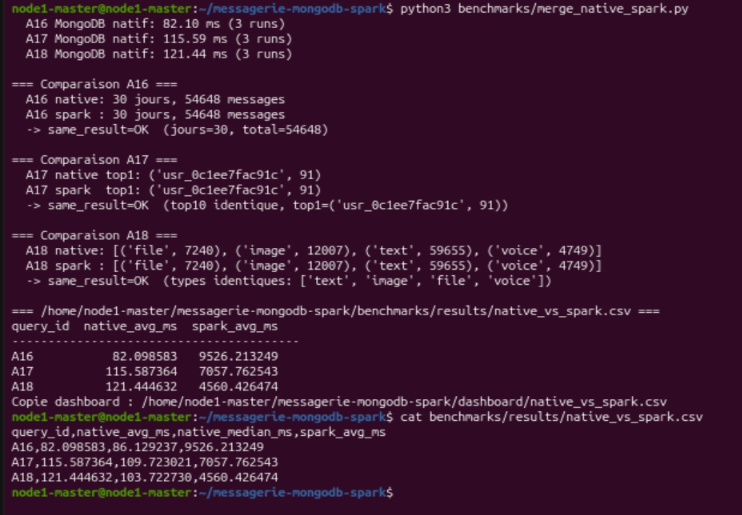
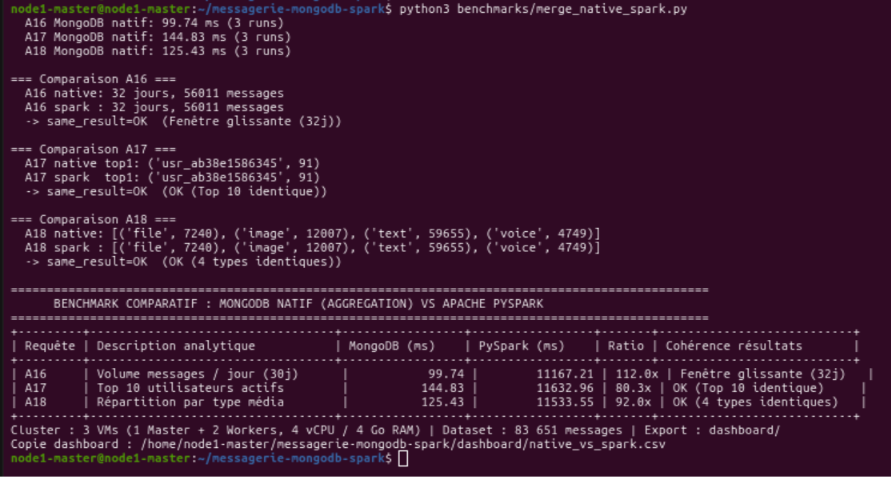
Update comparison capture

diff --git a/README.md b/README.md
@@ -271,11 +271,11 @@ Cette capture présente la mesure Spark de l'analyse A18.
 
 **Comparaison MongoDB natif et Spark**
 Cette capture résume les temps et la cohérence des résultats A16 à A18.
-<p align="center"><img src="./screenshots/preuve_comparaison_native_spark.png" width="420" alt="Comparaison native et Spark"></p>
+<p align="center"><img src="./screenshots/preuve_comparaison_csv_vm.png" width="420" alt="Comparaison native et Spark"></p>
 
 **Comparaison finale sur la VM**
 Cette capture confirme que les résultats A16, A17 et A18 sont cohérents entre MongoDB et Spark.
-<p align="center"><img src="./screenshots/preuve_comparaison_vm.png" width="420" alt="Comparaison finale sur la VM"></p>
+<p align="center"><img src="./screenshots/preuve_comparaison_csv_vm.png" width="420" alt="Comparaison finale sur la VM"></p>
 
 **Test de cohérence des écritures**
 Cette capture compare les niveaux de Write Concern et Read Concern.
